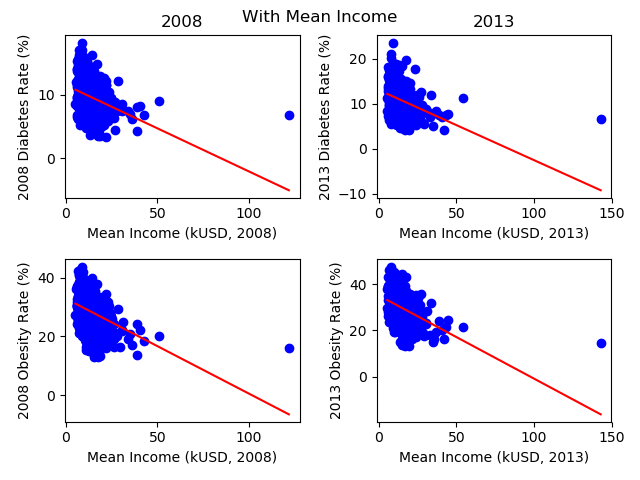
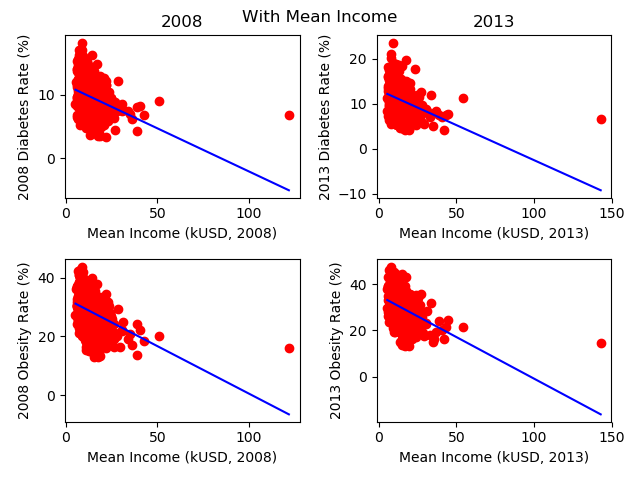
consistent color scheme for visualizations

diff --git a/Projects/1ProjectFiles/Team8/ExploreRelation.py b/Projects/1ProjectFiles/Team8/ExploreRelation.py
@@ -47,8 +47,8 @@ def scatter_with_trend(x, y, w=None, title=None, xlabel=None, ylabel=None, subpl
     plt.title(title)
     plt.xlabel(xlabel)
     plt.ylabel(ylabel)
-    plt.scatter(x, y, c='b')
-    plt.plot(range_x, y_hat, c='r')
+    plt.scatter(x, y, c='r')
+    plt.plot(range_x, y_hat, c='b')
 
     print('Corr {} with {}: r={}'.format(xlabel, ylabel, corr(x, y, w))) # want single-tailed version
 
